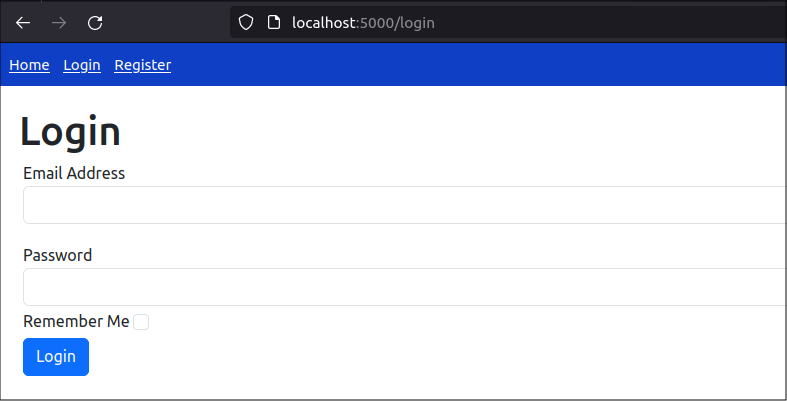
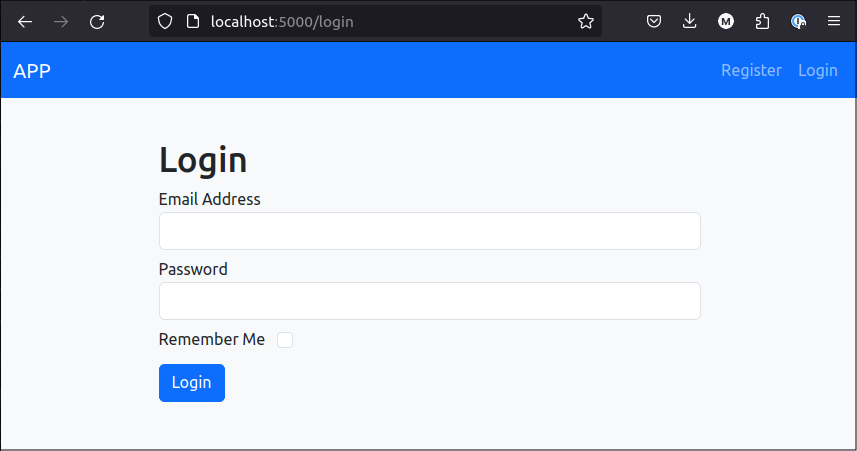
completed draft

diff --git a/content/drafts/mfo5-add-bootstrap-to-flask-site/add-bootstrap-css-to-flask-website.md b/content/drafts/mfo5-add-bootstrap-to-flask-site/add-bootstrap-css-to-flask-website.md
@@ -73,6 +73,8 @@ https://wrapbootstrap.com
 Free stock photos
 https://unsplash.com
 
+Examples
+https://getbootstrap.com/docs/5.0/examples/
 
 # Boostrap-Flask
 
@@ -263,7 +265,9 @@ Then text the page. Go to the *Login* page
 
 ![](./images/bootstrap-002.png)
 
-See that the form is styled more attractively but the fields stretch all the way accross the page. We may want to make the login panel fit into a more compact space. One way to do this is to use the Boostrap grid.
+See that the form is styled more attractively but the fields stretch all the way accross the page. We may want to make the login panel fit into a more compact space. One way to do this is to use the Boostrap grid. We'll look at that later.
+
+Do the same for other template that have forms in them. At this point, that is the *security/change_password.html* and *security/register_user.html* templates.
 
 ## Navbar
 
@@ -296,7 +300,90 @@ In *templates/shared_layout.html*, replace the *<nav>..</nav>* section with the 
                 <a class="nav-link" href="{{ url_for_security('logout') }}">Logout</a>
             {% endif %}
         </div>
-      </div>
     </div>
-  </nav>
-  ```
+</nav>
+```
+
+# Bootstrap styles for information pages
+
+## Remove custom styles
+
+First, I commented out the CSS styles I previously created in the files, *static/css/style.css* and *account/static/css/styles.css*.
+
+## Style the shared layout
+
+Change the `<bod>` tag to `<body class="bg-light">` to give the background a light-grey color
+
+Change the `<div class="main_content">` to `<div class="container_fluid p-3">` to give each page a bit of padding around it
+
+
+## Style the login page
+
+Center the login form. Place the form in a smaller space.
+
+Around the login content create divs for the Bootstrap row and column. You need these so that the table element lign up with the heading on the login page, and to give some space around the login form. Also, color the row white so it stands out a bit.
+
+```html
+<div class="row pt-4 pb-4 bg-white">
+  <div class="col-sm-2">
+  </div>
+  <div class="col-sm-8">
+    ...
+  </div>
+  <div class="col-sm-2">
+  </div>
+</div>
+```
+
+[Add Bootstrap classes](https://stackoverflow.com/questions/34659619/flask-security-and-bootstrap) to the *render_field_with_errors* and *render_field* macros in the *templates/login_user.html* file. Use the `class_=` attribute
+
+For example:
+
+```html
+{{ render_field_with_errors(login_user_form.email, class_="form-control mb-2") }}
+```
+
+the template will look like the following:
+
+```html
+<div class="row pt-4 pb-4">
+    <div class="col-sm-2">
+    </div>
+    <div class="col-sm-8">
+        {% include "security/_messages.html" %}
+        <h1 class="legend">{{ _fsdomain('Login') }}</h1>
+        <form action="{{ url_for_security('login') }}{{ prop_next() }}" method="post" name="login_user_form">
+            {{ login_user_form.hidden_tag() }}
+            {{ render_form_errors(login_user_form) }}
+            {% if "email" in identity_attributes %}{{ render_field_with_errors(login_user_form.email, class_="form-control mb-2") }}{% endif %}
+            {% if login_user_form.username and "username" in identity_attributes %}
+            {% if "email" in identity_attributes %}<h3>{{ _fsdomain("or") }}</h3>{% endif %}
+            {{ render_field_with_errors(login_user_form.username, class_="form-control mb-2") }}
+            {% endif %}
+            {{ render_field_with_errors(login_user_form.password, class_="form-control mb-2") }}
+            {{ render_field_with_errors(login_user_form.remember, class="form-check-input mb-3 ms-2") }}
+            {{ render_field_errors(login_user_form.csrf_token) }}
+            {{ render_field(login_user_form.submit, class_="btn btn-primary mb-2") }}
+        </form>
+        <!-- removed other content -->
+    </div>
+    <div class="col-sm-2">
+    </div>
+</div>
+```
+
+And this reults in a "good-enough" login page:
+
+![](./images/bootstrap-010.png)
+
+
+Now, do the same to the *Register* template and the *Change Password* template
+
+# Conclusion
+
+I still need to add styles to teh *Home* page, *Admin* page, and *Account* page but I'll do that when I create content for those pages.
+
+For now, you can see that the default Bootstrap styles, along with the container padding I defoned in teh sgared layout template, create a not-bad-looking home page:
+
+![](./images/bootstrap-011.png)
+
